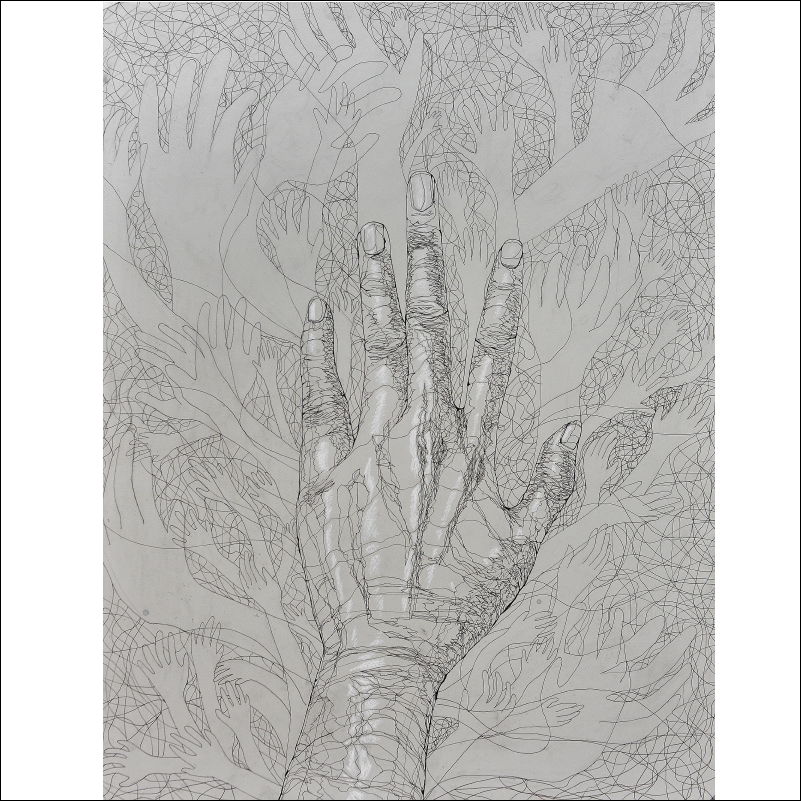
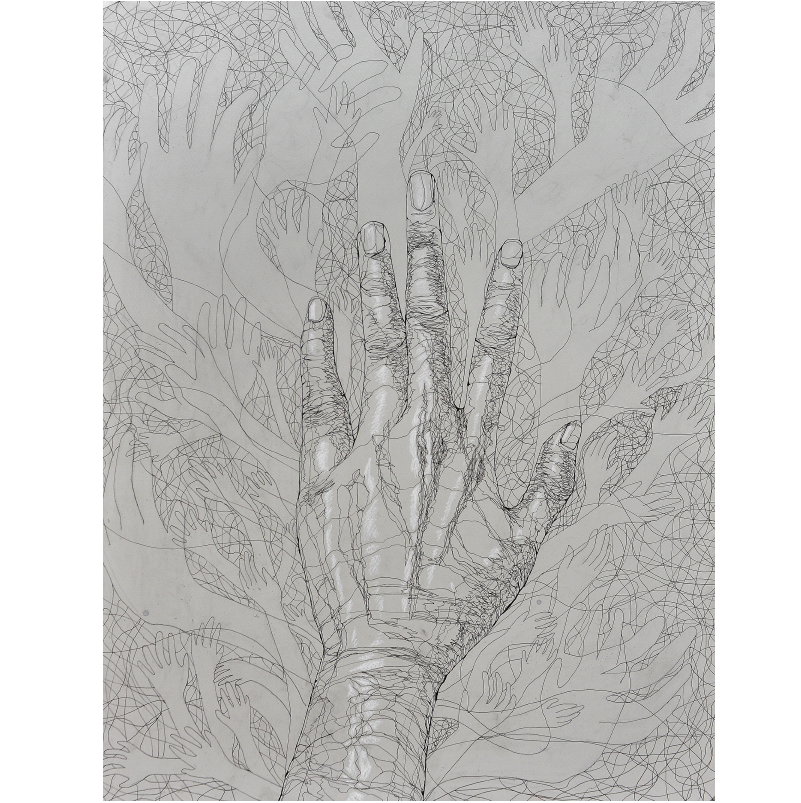
change of cover photos

Changed region(s): [[0.0, 0.0, 1.0, 1.0], [0.1561, 0.2497, 0.2185, 0.3745], [0.3121, 0.2809, 0.3433, 0.3121]]

diff --git a/index.html b/index.html
@@ -231,7 +231,7 @@
                 <div class="iso-box print col-md-4 col-sm-6">
                   <div class="portfolio-thumb">
                     <a href="files/universe.html">
-                    <img src="images/universe.jpg" class="img-responsive" alt="Portfolio">
+                    <img src="images/universe_cover.png" class="img-responsive" alt="Portfolio">
                     <div class="portfolio-overlay text-white">
                       <div class="portfolio-item">
                         <h2 class="portfolio_title">Of the Universe</h2>
